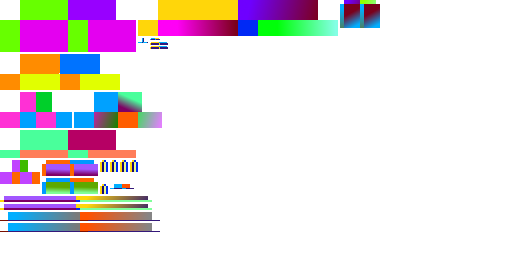
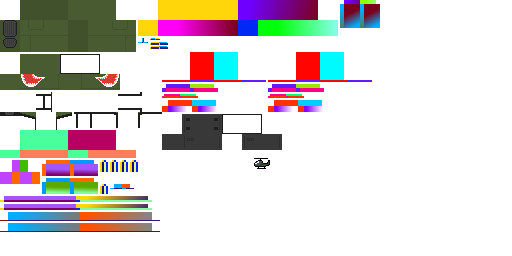
Start of Cobra texture

Changed region(s): [[0.0, 0.0, 0.7188, 0.6562]]

diff --git a/src/main/java/com/flansmod/client/model/mw/ModelCobra.java b/src/main/java/com/flansmod/client/model/mw/ModelCobra.java
@@ -11,7 +11,7 @@ public class ModelCobra extends ModelPlane
 		int textureX = 512; //The x-size of the texture
 		int textureY = 256;	//The y-size of the texture
 	
-        bodyModel = new ModelRendererTurbo[8];
+        bodyModel = new ModelRendererTurbo[11];
         
         bodyModel[0] = new ModelRendererTurbo(this, 0, 0, textureX, textureY); //Main body section
 		bodyModel[0].addBox(-24F, 8F, -10F, 48, 32, 20);		
@@ -24,20 +24,61 @@ public class ModelCobra extends ModelPlane
 		
 		bodyModel[3] = new ModelRendererTurbo(this, 74, 92, textureX, textureY); //Cockpit front
 		bodyModel[3].addShapeBox(-64F, 24F, -10F, 24, 16, 20, 0F, /* 0 */ 0F, 0F, 0F, /* 1 */ 0F, 0F, 0F, /* 2 */ 0F, 0F, 0F, /* 3 */ 0F, 0F, 0F, /* 4 */ -6F, -6F, -2F, /* 5 */ 0F, 0F, -2F, /* 6 */ 0F, 0F, -2F, /* 7 */ -6F, -6F, -2F);
+		
+		bodyModel[4] = new ModelRendererTurbo(this, 0, 92, textureX, textureY); //Cockpit back inside
+		bodyModel[4].flip = true;
+		bodyModel[4].addShapeBox(-40F, 24F, -10F, 16, 16, 20, 0F, /* 0 */ 0F, 0F, 0F, /* 1 */ 0F, 0F, 0F, /* 2 */ 0F, 0F, 0F, /* 3 */ 0F, 0F, 0F, /* 4 */ 0F, 0F, -2F, /* 5 */ 0F, 0F, -2F, /* 6 */ 0F, 0F, -2F, /* 7 */ 0F, 0F, -2F);
+		
+		bodyModel[5] = new ModelRendererTurbo(this, 74, 92, textureX, textureY); //Cockpit front inside
+		bodyModel[5].flip = true;
+		bodyModel[5].addShapeBox(-64F, 24F, -10F, 24, 16, 20, 0F, /* 0 */ 0F, 0F, 0F, /* 1 */ 0F, 0F, 0F, /* 2 */ 0F, 0F, 0F, /* 3 */ 0F, 0F, 0F, /* 4 */ -6F, -6F, -2F, /* 5 */ 0F, 0F, -2F, /* 6 */ 0F, 0F, -2F, /* 7 */ -6F, -6F, -2F);
 				
-		bodyModel[4] = new ModelRendererTurbo(this, 0, 130, textureX, textureY); //Top blade base
-		bodyModel[4].addTrapezoid(-24F, 40F, -10F, 48, 8, 20, 0F, -4F, ModelRendererTurbo.MR_BOTTOM);	
+		bodyModel[6] = new ModelRendererTurbo(this, 0, 130, textureX, textureY); //Top blade base
+		bodyModel[6].addTrapezoid(-24F, 40F, -10F, 48, 8, 20, 0F, -4F, ModelRendererTurbo.MR_BOTTOM);	
 		
-        bodyModel[5] = new ModelRendererTurbo(this, 0, 160, textureX, textureY); //Rear jet
-		bodyModel[5].addBox(24F, 26F, -6F, 8, 12, 12);		
+        bodyModel[7] = new ModelRendererTurbo(this, 0, 160, textureX, textureY); //Rear jet
+		bodyModel[7].addBox(24F, 26F, -6F, 8, 12, 12);		
 		
-		bodyModel[6] = new ModelRendererTurbo(this, 42, 160, textureX, textureY); //Side jet
-		bodyModel[6].addBox(0F, 26F, 10F, 24, 12, 4);		
+		bodyModel[8] = new ModelRendererTurbo(this, 42, 160, textureX, textureY); //Side jet
+		bodyModel[8].addBox(0F, 26F, 10F, 24, 12, 4);		
 
-		bodyModel[7] = new ModelRendererTurbo(this, 42, 178, textureX, textureY); //Side jet
-		bodyModel[7].addBox(0F, 26F, -14F, 24, 12, 4);		
-
+		bodyModel[9] = new ModelRendererTurbo(this, 42, 178, textureX, textureY); //Side jet
+		bodyModel[9].addBox(0F, 26F, -14F, 24, 12, 4);		
 		
+		bodyModel[10] = new ModelRendererTurbo(this, 162, 114, textureX, textureY); //Front body section insides
+		bodyModel[10].flip = true;
+		bodyModel[10].addBox(-64F, 8F, -10F, 40, 16, 20);	
+
+
+		//Right wing
+		rightWingModel = new ModelRendererTurbo[4];
+		    
+		rightWingModel[0] = new ModelRendererTurbo(this, 162, 52, textureX, textureY); //Main piece
+		rightWingModel[0].addShapeBox(-12F, 21F, -38F, 24, 2, 28, 0F, /* 0 */ -8F, 0F, 0F, /* 1 */ 0F, 0F, 0F, /* 2 */ 0F, 0F, 0F, /* 3 */ 0F, 0F, 0F, /* 4 */ -8F, 0F, 0F, /* 5 */ 0F, 0F, 0F, /* 6 */ 0F, 0F, 0F, /* 7 */ 0F, 0F, 0F);			
+        
+		rightWingModel[1] = new ModelRendererTurbo(this, 162, 84, textureX, textureY); //Tip
+		rightWingModel[1].addBox(-8F, 20F, -42F, 24, 4, 4);	
+		
+		rightWingModel[2] = new ModelRendererTurbo(this, 162, 94, textureX, textureY); //Missile launcher connecting piece
+		rightWingModel[2].addBox(-4F, 19F, -30F, 16, 2, 2);	
+		
+		rightWingModel[3] = new ModelRendererTurbo(this, 162, 100, textureX, textureY); //Missile launcher box
+		rightWingModel[3].addBox(-8F, 13F, -32F, 24, 6, 6);	
+		
+		//Left wing
+		leftWingModel = new ModelRendererTurbo[4];
+		    
+		leftWingModel[0] = new ModelRendererTurbo(this, 268, 52, textureX, textureY); //Main piece
+		leftWingModel[0].addShapeBox(-12F, 21F, 10F, 24, 2, 28, 0F, /* 0 */ 0F, 0F, 0F, /* 1 */ 0F, 0F, 0F, /* 2 */ 0F, 0F, 0F, /* 3 */ -8F, 0F, 0F, /* 4 */ 0F, 0F, 0F, /* 5 */ 0F, 0F, 0F, /* 6 */ 0F, 0F, 0F, /* 7 */ -8F, 0F, 0F);			
+        
+		leftWingModel[1] = new ModelRendererTurbo(this, 268, 84, textureX, textureY); //Tip
+		leftWingModel[1].addBox(-8F, 20F, 38F, 24, 4, 4);	
+		
+		leftWingModel[2] = new ModelRendererTurbo(this, 268, 94, textureX, textureY); //Missile launcher connecting piece
+		leftWingModel[2].addBox(-4F, 19F, 28F, 16, 2, 2);	
+		
+		leftWingModel[3] = new ModelRendererTurbo(this, 268, 100, textureX, textureY); //Missile launcher box
+		leftWingModel[3].addBox(-8F, 13F, 26F, 24, 6, 6);	
 		
 		//Skids
 		skidsModel = new ModelRendererTurbo[6];

diff --git a/src/main/java/com/flansmod/client/model/ModelPlane.java b/src/main/java/com/flansmod/client/model/ModelPlane.java
@@ -335,6 +335,17 @@ public class ModelPlane extends ModelDriveable
         			gunModelPart.rotateAngleZ = -pitch * 3.14159265F / 180F;
         			gunModelPart.render(f5);
     			}
+    			if(gunModel.length > 3)
+    			{
+    				//Minigun barrel part
+    				float minigunSpeed = seat.getMinigunSpeed();
+        			for(ModelRendererTurbo gunModelPart : gunModel[2])
+        			{
+        				//Yaw, pitch, recoil and render
+            			gunModelPart.rotateAngleX = (180F - yaw) * 3.14159265F / 180F;
+            			gunModelPart.render(f5);
+        			}
+    			}
         	}
         }
     }

diff --git a/src/main/java/com/flansmod/common/driveables/EntitySeat.java b/src/main/java/com/flansmod/common/driveables/EntitySeat.java
@@ -55,6 +55,9 @@ public class EntitySeat extends Entity implements IControllable, IEntityAddition
 	public RotatedAxes prevLooking;
 	/** Delay ticker for shooting guns */
 	public int gunDelay;
+	/** Minigun speed */
+	public float minigunSpeed;
+	
 	/** Sound delay ticker for looping sounds */
 	public int soundDelay;
 	
@@ -590,5 +593,10 @@ public class EntitySeat extends Entity implements IControllable, IEntityAddition
 			setPosition(posX, posY, posZ);
 		}
 		
+	}
+
+	public float getMinigunSpeed() 
+	{
+		return minigunSpeed;
 	}
 }
